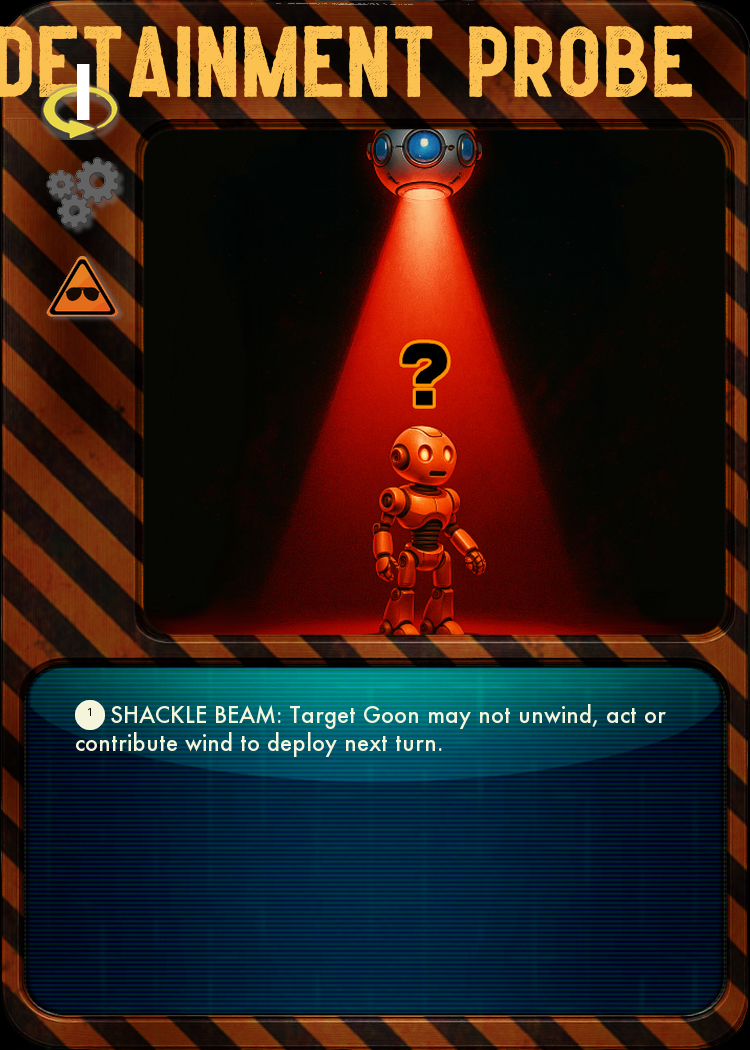
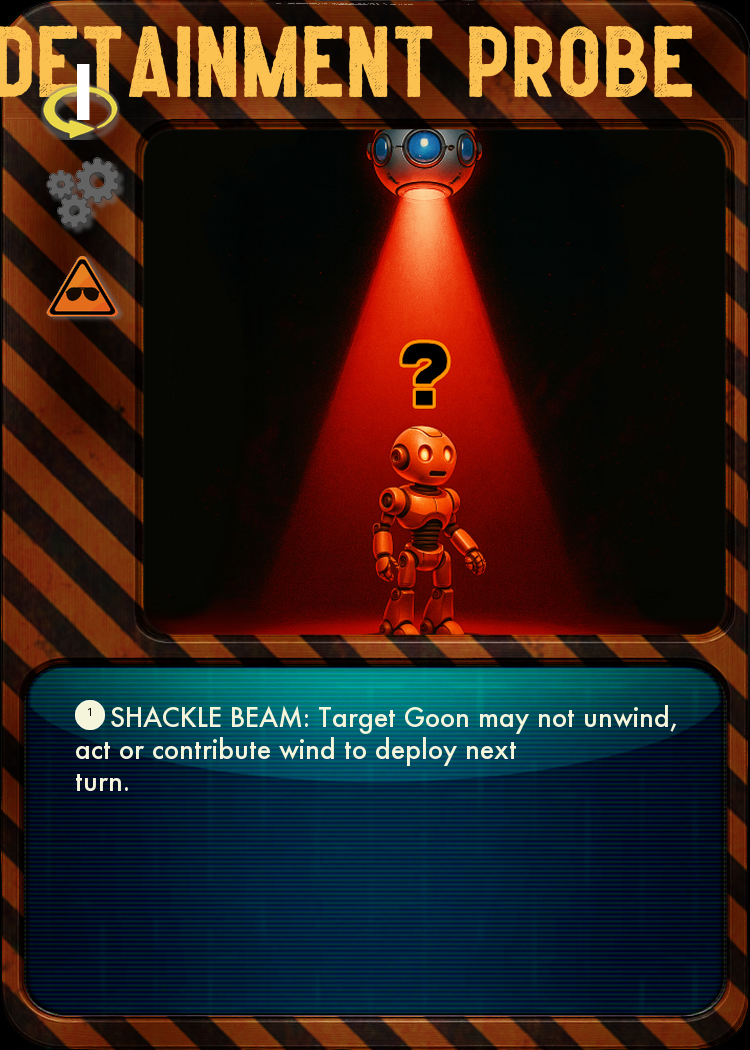
Refactor: Move font and color settings to JSON configs

Changed region(s): [[0.092, 0.6705, 0.8893, 0.7619]]

diff --git a/card_generator.py b/card_generator.py
@@ -23,7 +23,7 @@ NAME_Y = 25
 
 TEXT_BOX_START_X = 75
 TEXT_BOX_START_Y = 700
-TEXT_WIDTH_CHARS = 50
+TEXT_WIDTH_CHARS = 42
 
 def create_transparent_frame(faction):
     frame_path = os.path.join("elements", faction, "frame.png")
@@ -135,10 +135,22 @@ def get_assets(faction):
 def get_font(candidates, size, default_font=ImageFont.load_default()):
     """Tries to load a font from a list of candidates."""
     for font_name in candidates:
+        font_path = None
+        # First, check for a local file in the 'fonts' directory
+        local_path = os.path.join("fonts", font_name)
+        if os.path.exists(local_path):
+            font_path = local_path
+        else:
+            # If not local, try to find the font on the system
+            try:
+                font_path = ImageFont.find_font(font_name)
+            except Exception:
+                font_path = font_name # Fallback to trying the name directly
+        
         try:
-            return ImageFont.truetype(font_name, size)
+            return ImageFont.truetype(font_path, size)
         except IOError:
-            continue
+            continue # Try the next candidate
     return default_font
 
 def create_placeholder_art(size=(650, 600), text="ART MISSING"):
@@ -226,6 +238,7 @@ def generate_cards(json_file, art_dir, output_dir, faction, auto_generate_art=Fa
     font_body = get_font_from_json("body_font_family", "body_font_size", ["Futura.ttc", "Avenir.ttc"], 22)
     font_abil_num = get_font_from_json("ability_num_font_family", "ability_num_font_size", ["Futura.ttc", "Avenir.ttc"], 24)
     font_abil_num_bold = get_font_from_json("ability_num_bold_font_family", "ability_num_bold_font_size", ["Futura-Bold.ttf", "Avenir-Heavy.ttf"], 25)
+    font_flavor = get_font_from_json("flavor_text_font_family", "flavor_text_font_size", ["Georgia-Italic.ttf", "TimesNewRoman-Italic.ttf"], 20)
 
     # --- COLORS (Loaded from JSON) ---
     color_name = data.get("card_name_font_color", "#c8baa6")
@@ -233,10 +246,10 @@ def generate_cards(json_file, art_dir, output_dir, faction, auto_generate_art=Fa
     color_body = data.get("body_font_color", "#F5F5DC")
     color_abil_cost = data.get("ability_cost_font_color", "black")
     
-    def draw_wrapped_text(draw_context, text, start_pos, font, fill, indent=0):
+    def draw_wrapped_text(draw_context, text, start_pos, font, fill, indent=0, width=TEXT_WIDTH_CHARS):
         """Helper to draw wrapped text with an optional icon and return the new y-position."""
         x, y = start_pos
-        lines = textwrap.wrap(text, width=TEXT_WIDTH_CHARS)
+        lines = textwrap.wrap(text, width=width)
         line_height = font.getbbox("A")[3] + 5 # Get font height and add a small margin
         for i, line in enumerate(lines):
             line_indent = indent if i == 0 else 0
@@ -455,6 +468,11 @@ def generate_cards(json_file, art_dir, output_dir, faction, auto_generate_art=Fa
                     req_text = f"{req['card_name']} must be in play to deploy."
                     text_y = draw_wrapped_text(draw, req_text, (TEXT_BOX_START_X, text_y), font_body, color_body, indent=40)
         
+        # --- 8. FLAVOR TEXT ---
+        if card.get("flavor_text"):
+            flavor_text = f'"{card["flavor_text"]}"'
+            text_y = draw_wrapped_text(draw, flavor_text, (TEXT_BOX_START_X, text_y), font_flavor, color_body, indent=0, width=int(TEXT_WIDTH_CHARS * 1.4))
+
         filename = f"{output_dir}/{name.replace(' ', '_')}.png"
         canvas.save(filename)
 
